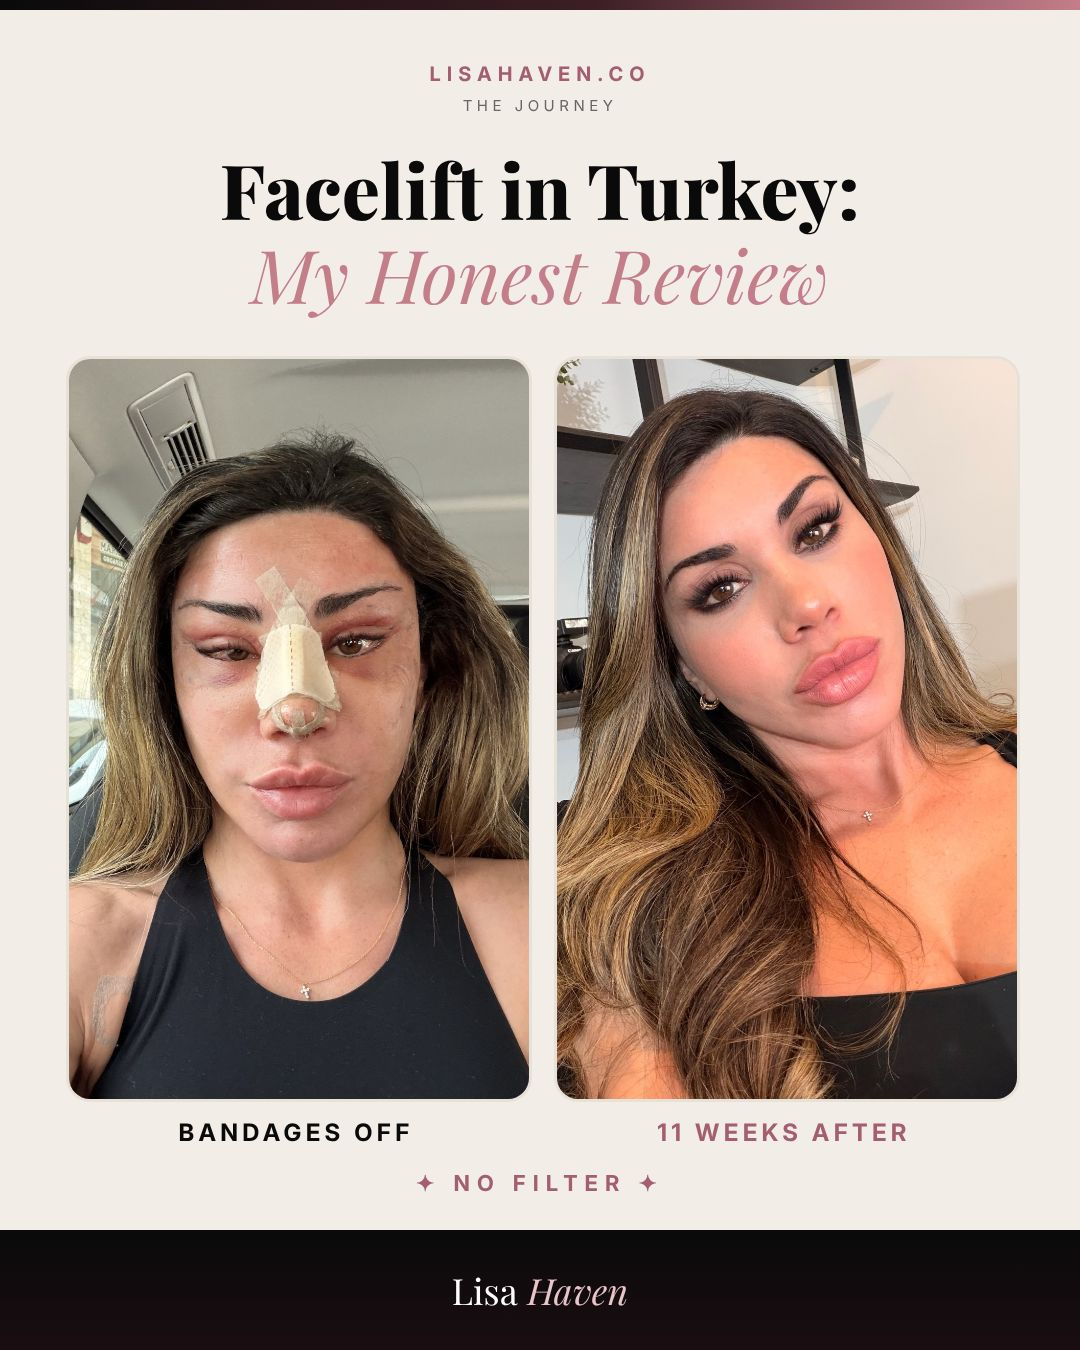
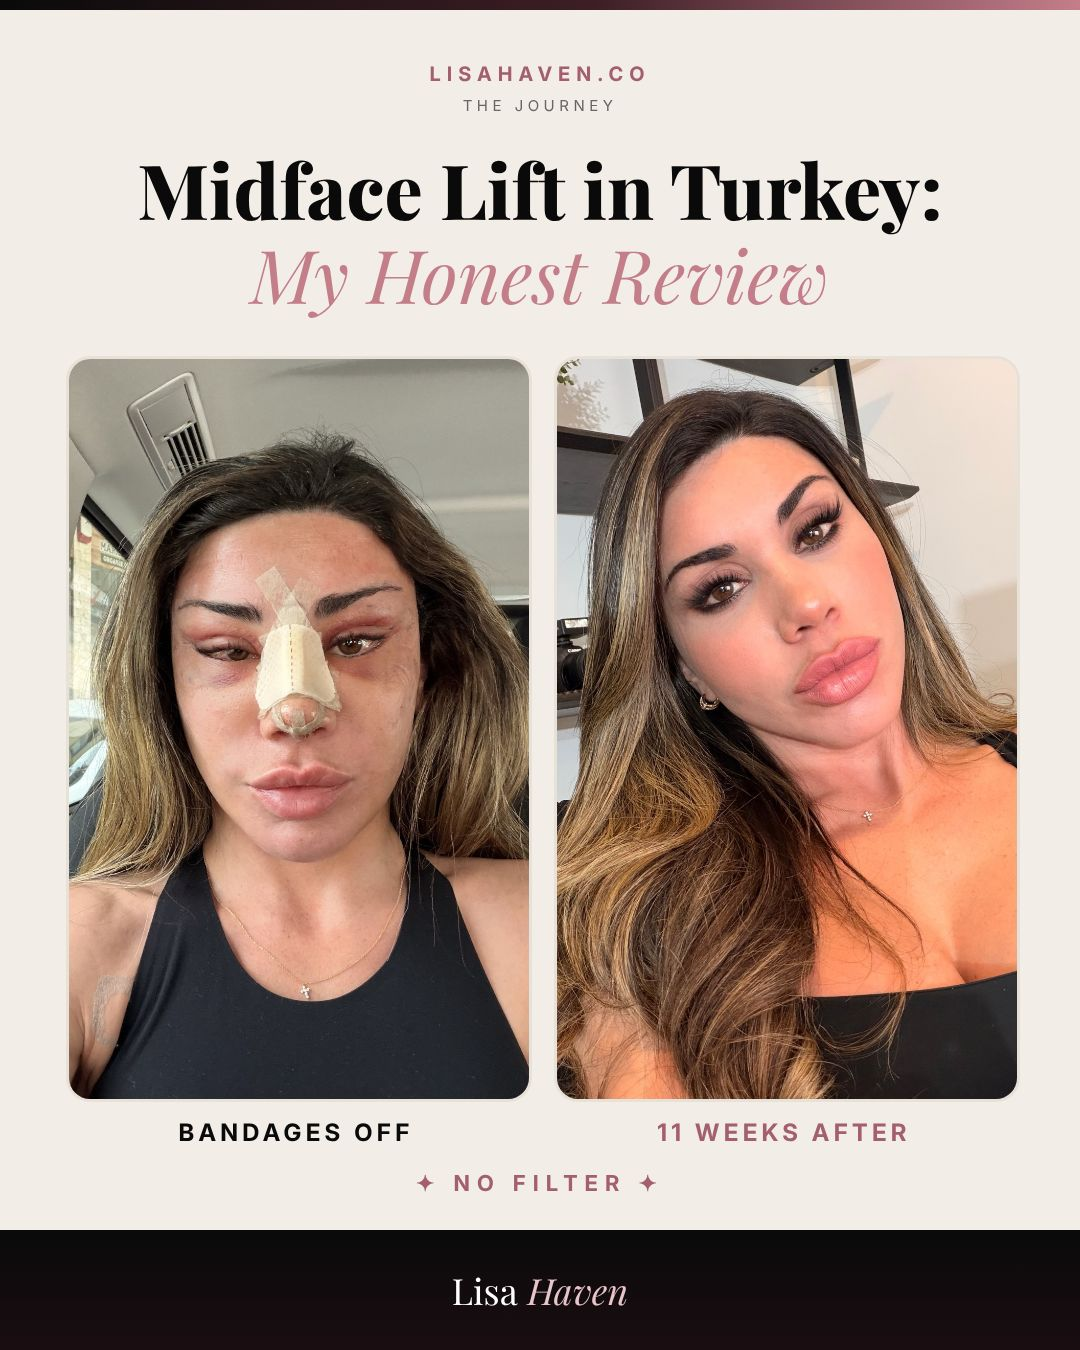
Rename post to Midface Lift in Turkey, forward the old link
Claude-Session: https://claude.ai/code/session_0169LMnZAAYVJB72yBYjKfJr

Changed region(s): [[0.1222, 0.0933, 0.8861, 0.1867]]

diff --git a/_posts/2026-11-11-midface-lift-in-turkey-review.md b/_posts/2026-11-11-midface-lift-in-turkey-review.md
@@ -1,20 +1,20 @@
 ---
-title: "Facelift in Turkey: My Honest Review and Recovery Timeline"
+title: "Midface Lift in Turkey: My Honest Review and Recovery Timeline"
 category: The Journey
 emoji: 🖤
 date: 2026-11-11T02:15:00.000-05:00
 readTime: 15 min read
-excerpt: "9 procedures in 1 day, a nurse by my side all night and 2 quiet months of healing. My honest facelift in Turkey review, with every photo."
+excerpt: "9 procedures in 1 day, a nurse by my side all night and 2 quiet months of healing. My honest midface lift in Turkey review, with every photo."
 image: /images/uploads/facelift-in-turkey-review-cover.jpg
-seoTitle: "Facelift in Turkey: My Honest Review and Recovery Timeline"
-metaDescription: "My honest facelift in Turkey review: 9 procedures, real recovery photos from day 1 to month 3, how I used AI to pick my surgeon, and what nobody tells you."
+seoTitle: "Midface Lift in Turkey: My Honest Review and Recovery"
+metaDescription: "My honest midface lift in Turkey review: 9 procedures, real recovery photos from day 1 to month 3, how I used AI to pick my surgeon, and what nobody tells you."
 draft: false
 ---
 On the third day, the nurse gently unwrapped my bandages. I looked into the mirror, then at my surgeon, and the tears came before I could stop them. The woman looking back at me was so swollen I barely recognized her. 1 eye had drifted inward. In that moment, I was certain my face had been ruined.
 
 He met my eyes, completely calm, and said, "Lisa, this is normal."
 
-This is my honest **facelift in Turkey review**, written for the woman who is quietly researching at midnight, the way I once was. The short answer: I had 9 procedures in a single day, including a deep plane midface lift and neck lift rather than a full facelift, and at 3 months I would rate my results a 9 out of 10. But the recovery was longer, harder and far more emotional than any before and after photo prepared me for. In the pages below, I share every photo, the AI prompt I used to choose my surgeon, my real recovery timeline and the lessons I wish someone had shared with me first.
+This is my honest **midface lift in Turkey review**, written for the woman who is quietly researching at midnight, the way I once was. The short answer: I had 9 procedures in a single day, including a deep plane midface lift and neck lift rather than a full facelift, and at 3 months I would rate my results a 9 out of 10. But the recovery was longer, harder and far more emotional than any before and after photo prepared me for. In the pages below, I share every photo, the AI prompt I used to choose my surgeon, my real recovery timeline and the lessons I wish someone had shared with me first.
 
 A quick note before we begin: this post is not sponsored. I paid for my surgery myself, and I receive no discount, perk or commission for telling this story. And every photo you see here is shared exactly as it was taken, with no filter.
 
@@ -120,13 +120,13 @@ I flew first class to Istanbul, then took a short flight south to Mersin. The cl
 
 What struck me first was the people. Everyone was kind, and not in a rehearsed way. They genuinely cared, and you could feel how much they loved their work. That warmth settled my nerves and confirmed that I was in the right hands.
 
-![Facelift in Turkey trip from Miami to Mersin: the airport lounge, the flight to Istanbul, Istanbul Airport, flying south to Mersin, settling in, breakfast in bed, my welcome roses and surgery morning at the hospital.](/images/uploads/facelift-in-turkey-review-the-trip.jpg)
+![Midface Lift in Turkey trip from Miami to Mersin: the airport lounge, the flight to Istanbul, Istanbul Airport, flying south to Mersin, settling in, breakfast in bed, my welcome roses and surgery morning at the hospital.](/images/uploads/facelift-in-turkey-review-the-trip.jpg)
 
 The preparation had been just as smooth. I completed my blood work at home before leaving. We had a FaceTime consultation where I shared every concern, and I sent videos in good lighting so he could study my face in detail.
 
 When I arrived, Dr. Vasfi welcomed me with roses, a gesture he offers every patient. Then we moved through my final tests. He also pulled up my profile on his screen and showed me a preview of how my nose could look after surgery. Seeing it there, on the screen, made everything feel real.
 
-![Facelift in Turkey consultation: on his screen, Dr. Vasfi showed me a preview of how my nose could look after surgery.](/images/uploads/facelift-in-turkey-review-consultation.jpg)
+![Midface Lift in Turkey consultation: on his screen, Dr. Vasfi showed me a preview of how my nose could look after surgery.](/images/uploads/facelift-in-turkey-review-consultation.jpg)
 
 In person, he studied my face carefully and said, "Lisa, I think you need a little more here, and perhaps some fat grafting here and here." He also pointed out a little loose skin on my neck, left over from losing weight, and explained how the neck lift would tighten it.
 
@@ -150,13 +150,13 @@ My surgery took place on August 6, 2026, and lasted about 8 hours under general 
 
 As for scars, they are virtually invisible. They rest about half an inch to 1 inch inside my hairline near my brows, behind my ears and beneath my chin.
 
-<details style="margin:24px 0;"><summary onclick="this.style.display='none'" style="list-style:none;cursor:pointer;"><img src="/images/uploads/facelift-in-turkey-review-right-after-surgery-blurred.jpg" alt="Sensitive image: a blurred photo from right after my surgery. Tap to view." style="width:100%;height:auto;display:block;"></summary><img src="/images/uploads/facelift-in-turkey-review-right-after-surgery.jpg" alt="Right after my facelift in Turkey, still on the operating table: swollen eyes, surgical markings and fresh tape before bandages." style="width:100%;height:auto;display:block;"></details>
+<details style="margin:24px 0;"><summary onclick="this.style.display='none'" style="list-style:none;cursor:pointer;"><img src="/images/uploads/facelift-in-turkey-review-right-after-surgery-blurred.jpg" alt="Sensitive image: a blurred photo from right after my surgery. Tap to view." style="width:100%;height:auto;display:block;"></summary><img src="/images/uploads/facelift-in-turkey-review-right-after-surgery.jpg" alt="Right after my midface lift in Turkey, still on the operating table: swollen eyes, surgical markings and fresh tape before bandages." style="width:100%;height:auto;display:block;"></details>
 
-## My Facelift in Turkey Recovery, Week by Week
+## My Midface Lift in Turkey Recovery, Week by Week
 
 This is the chapter I wish I had read before booking. My goal is not to frighten you. It is to prepare you, especially if you are considering surgery far from home.
 
-![Facelift in Turkey recovery timeline: day 1 to 2 I could not open my eyes, day 3 bandages off, weeks 1 to 2 my neck was very tight, day 10 I flew home, weeks 2 to 10 I stayed home, month 3 the real results started to show, month 12 is the final result.](/images/uploads/facelift-in-turkey-review-chart.jpg)
+![Midface Lift in Turkey recovery timeline: day 1 to 2 I could not open my eyes, day 3 bandages off, weeks 1 to 2 my neck was very tight, day 10 I flew home, weeks 2 to 10 I stayed home, month 3 the real results started to show, month 12 is the final result.](/images/uploads/facelift-in-turkey-review-chart.jpg)
 
 ### Days 1 to 3: the hardest days
 
@@ -164,11 +164,11 @@ I woke up disoriented, wondering where I was. My eyes would not open. So much ha
 
 My nurse, Benfu, stayed with me around the clock in the hospital. On the first night, she slept right beside my bed. She was so tender and attentive, and endlessly patient with my many, many protein shake requests. I am quite sure I tested that patience. We still follow each other on Instagram, and I will never forget her kindness.
 
-![My nurse Benfu and me in Turkey, 4 days after my facelift, my face still wrapped in bandages.](/images/uploads/facelift-in-turkey-review-my-nurse.jpg)
+![My nurse Benfu and me in Turkey, 4 days after my midface lift, my face still wrapped in bandages.](/images/uploads/facelift-in-turkey-review-my-nurse.jpg)
 
 Surprisingly, my face did not hurt much. My neck was another story. Because of the neck lift, it felt as though someone was pressing on my throat, and for the first few days, swallowing felt almost impossible. That tightness lasted about 2 weeks before it slowly began to ease.
 
-<details style="margin:24px 0;"><summary onclick="this.style.display='none'" style="list-style:none;cursor:pointer;"><img src="/images/uploads/facelift-in-turkey-review-day-1-blurred.jpg" alt="Sensitive image: blurred photos from the day after my surgery. Tap to view." style="width:100%;height:auto;display:block;"></summary><img src="/images/uploads/facelift-in-turkey-review-day-1.jpg" alt="Day 1 after my facelift in Turkey: my face taped and bandaged, and the stitches under my chin from the neck lift." style="width:100%;height:auto;display:block;"></details>
+<details style="margin:24px 0;"><summary onclick="this.style.display='none'" style="list-style:none;cursor:pointer;"><img src="/images/uploads/facelift-in-turkey-review-day-1-blurred.jpg" alt="Sensitive image: blurred photos from the day after my surgery. Tap to view." style="width:100%;height:auto;display:block;"></summary><img src="/images/uploads/facelift-in-turkey-review-day-1.jpg" alt="Day 1 after my midface lift in Turkey: my face taped and bandaged, and the stitches under my chin from the neck lift." style="width:100%;height:auto;display:block;"></details>
 
 ### Day 3: the day I cried
 
@@ -176,7 +176,7 @@ This was the day my bandages came off. My face was enormously swollen, my nose l
 
 I cried right there in front of him. He remained calm and assured me it was normal. I did not want to believe him, but he was right.
 
-<video src="/images/uploads/facelift-in-turkey-review-before-and-after.mp4" poster="/images/uploads/facelift-in-turkey-review-before-and-after-poster.jpg" autoplay muted loop playsinline controls style="width:100%;height:auto;display:block;margin:24px 0;" aria-label="Facelift in Turkey before and after: bandages off with 1 eye crossed and heavy swelling, next to a video of my face 11 weeks later, smooth and lifted."></video>
+<video src="/images/uploads/facelift-in-turkey-review-before-and-after.mp4" poster="/images/uploads/facelift-in-turkey-review-before-and-after-poster.jpg" autoplay muted loop playsinline controls style="width:100%;height:auto;display:block;margin:24px 0;" aria-label="Midface Lift in Turkey before and after: bandages off with 1 eye crossed and heavy swelling, next to a video of my face 11 weeks later, smooth and lifted."></video>
 
 ### Day 10: I flew home early
 
@@ -192,7 +192,7 @@ Around 6 weeks in, my eyes began to water for no reason and became extremely sen
 
 What carried me through was research. I read story after story from women who had undergone the same procedures, and so many had walked the very same path. Knowing I was not alone brought me real peace.
 
-![Facelift in Turkey recovery photos: before surgery, bandages off, still very swollen at 1 week, 3 weeks and 11 weeks after.](/images/uploads/facelift-in-turkey-review-recovery-photos.jpg)
+![Midface Lift in Turkey recovery photos: before surgery, bandages off, still very swollen at 1 week, 3 weeks and 11 weeks after.](/images/uploads/facelift-in-turkey-review-recovery-photos.jpg)
 
 ### Month 3: finally, me
 
@@ -208,7 +208,7 @@ Here is the detail most people overlook. Before surgery, I studied the before ph
 
 That matches what the experts say. According to the [American Society of Plastic Surgeons](https://www.plasticsurgery.org/cosmetic-procedures/rhinoplasty/recovery), initial nose swelling eases within a few weeks, but it can take up to a year for the new shape to fully refine. So whenever you scroll through before and after photos, always check how long after surgery that "after" was taken.
 
-![After my facelift in Turkey: out again in a black strapless gown, feeling like myself.](/images/uploads/facelift-in-turkey-review-today.jpg)
+![After my midface lift in Turkey: out again in a black strapless gown, feeling like myself.](/images/uploads/facelift-in-turkey-review-today.jpg)
 
 Would I do it again? Without hesitation. Dr. Vasfi has earned a permanent place in my back pocket. If a new line ever appears, I know exactly who I am calling.
 
@@ -226,7 +226,7 @@ To your entire team, and to Benfu, the nurse who stayed by my side that first ni
 
 ## What I Wish Someone Had Told Me
 
-If you are considering a facelift in Turkey, or anywhere in the world, here is my honest advice:
+If you are considering a midface lift or facelift in Turkey, or anywhere in the world, here is my honest advice:
 
 1. **Plan for 3 months, not 2 weeks.** You may not feel ready for events, filming or social plans for quite a while.
 2. **Stay as long as your surgeon recommends.** Do not rush home the way I did.
@@ -250,11 +250,11 @@ I will share new photos and honest updates at 6 months, 9 months and 1 year. [Jo
 
 ## FAQ
 
-### How long is facelift in Turkey recovery?
+### How long is midface lift in Turkey recovery?
 
 For me, the most difficult stretch was the first 2 weeks. I felt comfortable being seen in public at around 2 and a half to 3 months. Final results can take up to 1 year, especially for the nose.
 
-### How much does a facelift in Turkey cost?
+### How much does a midface lift in Turkey cost?
 
 I am not sharing an exact number, because every face needs something different. What I can say is that it was a fraction of United States prices. Dr. Vasfi combined all of my procedures into 1 surgery and offered me a special package price. Ask each surgeon for a written quote that lists everything included.
 

diff --git a/_posts/2026-07-03-how-to-ask-chatgpt-better-questions-it-is-not-what-you-ask-it-is-how-you-ask.md b/_posts/2026-07-03-how-to-ask-chatgpt-better-questions-it-is-not-what-you-ask-it-is-how-you-ask.md
@@ -148,7 +148,7 @@ That 1 word does 3 things:
 2. **It asks for options.** 2 replies to choose from, not 1 answer to accept.
 3. **It keeps me in charge.** AI gives me the read. I make the decision, and I make it faster.
 
-I use this every day for creator questions, customer messages, business choices and even my own texts. AI does not make my decisions for me. It helps me make better ones, quicker. If you are wondering which tool to talk to, here is my honest [Claude vs ChatGPT comparison](https://lisahaven.co/blog/claude-vs-chatgpt/). I even used these steps to compare 3 plastic surgeons before my [facelift in Turkey review](https://lisahaven.co/blog/facelift-in-turkey-review/).
+I use this every day for creator questions, customer messages, business choices and even my own texts. AI does not make my decisions for me. It helps me make better ones, quicker. If you are wondering which tool to talk to, here is my honest [Claude vs ChatGPT comparison](https://lisahaven.co/blog/claude-vs-chatgpt/). I even used these steps to compare 3 plastic surgeons before my [midface lift in Turkey](https://lisahaven.co/blog/midface-lift-in-turkey-review/).
 
 ## What is the best way to ask ChatGPT questions after the first answer?
 

diff --git a/_posts/2026-06-08-from-zero-to-three-companies.md b/_posts/2026-06-08-from-zero-to-three-companies.md
@@ -125,7 +125,7 @@ Now tell me in the comments: **what time of day do you do your best work?** I re
 - [How to Lock In Mentally and Finish 2026 Strong](/blog/how-to-lock-in-mentally/)
 - [AI Tools for Entrepreneurs: The 9 I Actually Use](/blog/ai-tools-for-entrepreneurs/)
 - [How to Create an AI Agent with Claude](/blog/how-to-create-an-ai-agent-with-claude/)
-- [Facelift in Turkey: My Honest Review and Recovery Timeline](/blog/facelift-in-turkey-review/)
+- [Midface Lift in Turkey: My Honest Review and Recovery Timeline](/blog/midface-lift-in-turkey-review/)
 
 > "She considers a field and buys it; out of her earnings she plants a vineyard."
 >
